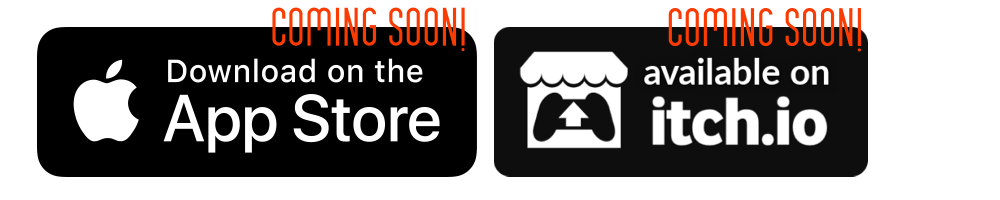
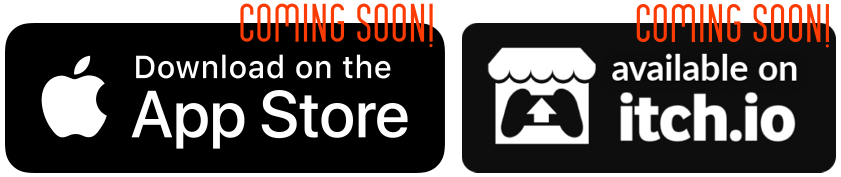
resize

diff --git a/_sass/layout.scss b/_sass/layout.scss
@@ -371,7 +371,7 @@ nav > ul li a:active {
 } 
 
 .appStore {
-	height: 85px;
+	height: 100px;
 }
 
 
